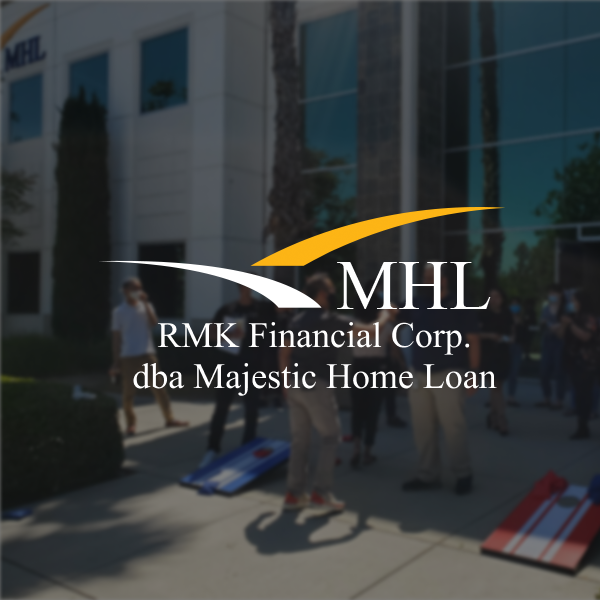
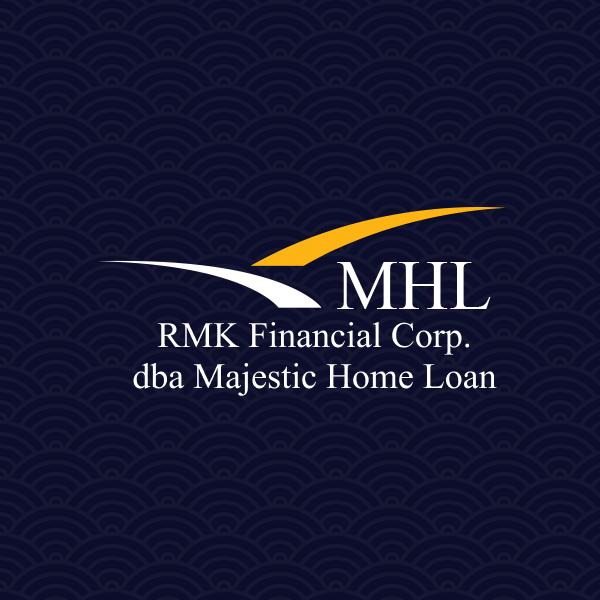
photo change for at RMK and at Cardinal
photo change, line color update to more subtle

diff --git a/assets/main.css b/assets/main.css
@@ -6,7 +6,7 @@
     --mono-font: Consolas, Menlo, Monaco, "Andale Mono", "Ubuntu Mono", monospace;
     --bg: #ffffff;
     --text: #2D2D2D;
-    --text-light: #846D6D;
+    --text-light: #d7d7d7;
     --accent: #F95C3A;
     --accent-light: #fff0ec;
     --accent-hover: #D13E1E;
@@ -617,7 +617,7 @@ badge {
     border-radius: 12px;
     padding: 4px 12px;
     border: 0.5px solid var(--text-light);
-    color: var(--text-light);
+    color: var(--text);
     width: fit-content;
     transition: all 0.3s ease-out;
     -webkit-transition: all 0.3s ease-out;
